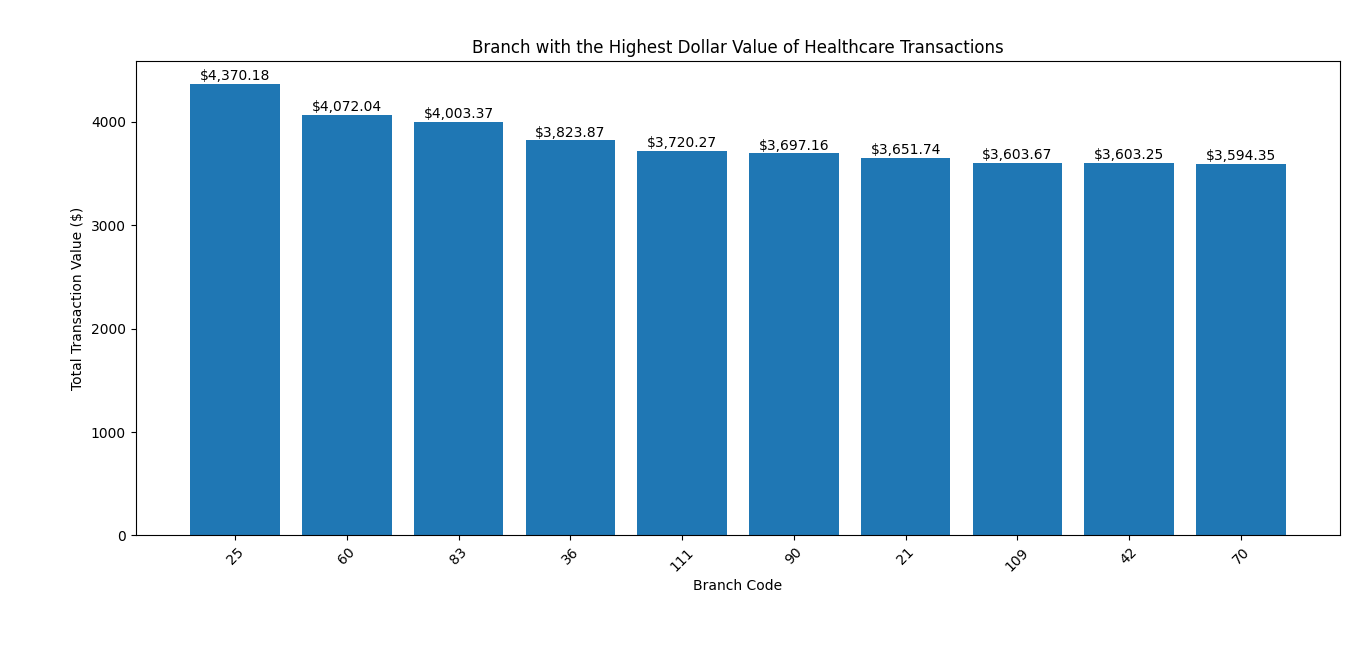
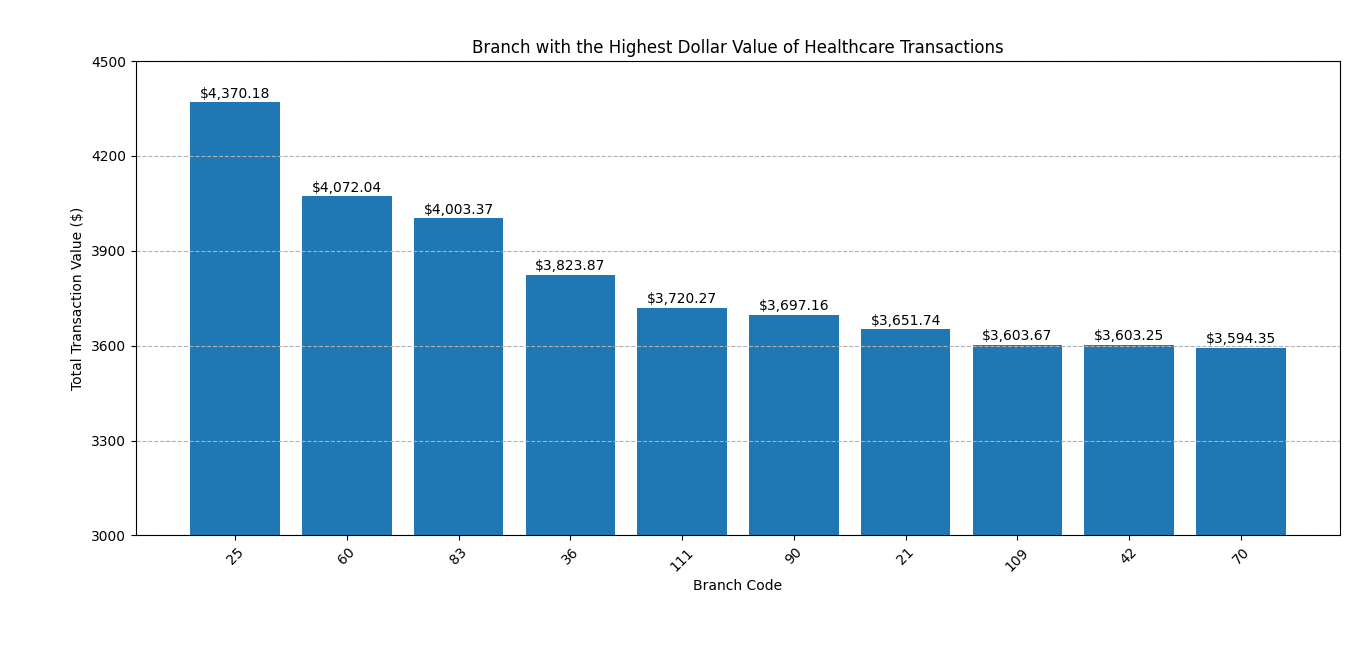
Final Commit

diff --git a/cap_project.py b/cap_project.py
@@ -15,15 +15,14 @@ spark = SparkSession.builder.appName("CreditCardSystem").getOrCreate()
 
 #Functional Requirement 1.1 - Data Extraction and Transformation with Python and PySpark
 
-branch_json_path = "C:/Users/Learner_9ZH3Z179/Desktop/CAP PROJECT/cdw_sapp_branch.json"
-creditcard_json_path = "C:/Users/Learner_9ZH3Z179/Desktop/CAP PROJECT/cdw_sapp_credit.json"
-customer_json_path = "C:/Users/Learner_9ZH3Z179/Desktop/CAP PROJECT/cdw_sapp_custmer.json"
+branch_json_path = "cdw_sapp_branch.json"
+creditcard_json_path = "cdw_sapp_credit.json"
+customer_json_path ="cdw_sapp_custmer.json"
 
-
-#---OR---Using Relative Paths (assuming all files are in the same folder as the .py script) 
-#branch_json_path = "cdw_sapp_branch.json"
-#creditcard_json_path = "cdw_sapp_credit.json"
-#customer_json_path ="cdw_sapp_custmer.json"
+#---OR---Using Absolute Paths
+#branch_json_path = "C:/Users/Learner_9ZH3Z179/Desktop/CAP PROJECT/cdw_sapp_branch.json"
+#creditcard_json_path = "C:/Users/Learner_9ZH3Z179/Desktop/CAP PROJECT/cdw_sapp_credit.json"
+#customer_json_path = "C:/Users/Learner_9ZH3Z179/Desktop/CAP PROJECT/cdw_sapp_custmer.json"
 
 
 def load_to_dataframe():
@@ -118,8 +117,8 @@ def load_to_database(df, table_name):
     .save()
 
 
-if __name__ == "__main__":
-    creditcard_df, customer_df, branch_df = load_to_dataframe()
+#if __name__ == "__main__":
+#    creditcard_df, customer_df, branch_df = load_to_dataframe()
 #    processed_creditcard_df = mapping_process_creditcard_data(creditcard_df)
 #    processed_customer_df = mapping_process_customer_data(customer_df)
 #    processed_branch_df = mapping_process_branch_data(branch_df)
@@ -154,6 +153,7 @@ def get_connection():
 # Order by day in descending order.
 
 def fetch_transactions_by_zip_code_month_and_year():
+
     connection = get_connection()
     cursor = connection.cursor()
     
@@ -287,9 +287,9 @@ def fetch_transactions_by_state():
     print("\n \n")
     if data1:
         total_branches = data1[0][1]
-        print(f"{state} has {total_branches} branches.\n")
+        print(f"{state} has {total_branches} branche/s.\n")
 
-    df = pd.DataFrame(data, columns=["BRANCH_STATE", "TOTAL_TRANSACTIONS", "TOTAL_VALUE"])
+    df = pd.DataFrame(data, columns=["STATE", "TOTAL_TRANSACTIONS", "TOTAL_VALUE"])
     print(df)
     print("\n")
     cursor.close()
@@ -407,9 +407,13 @@ def modify_customer_phone_number(sn):
     cursor.execute(query)
     current_phone =cursor.fetchone()
 
-    if current_phone:
-        #print(current_city[0])
-        print(f"\nYour phone in our records is: {current_phone[0]}")
+    if not current_phone:
+        print(f"NO record found for SSN: {sn}")
+        cursor.close()
+        connection.close()
+        return
+
+    print(f"\nYour phone in our records is: {current_phone[0]}")
     new_phone = input("\nEnter your new phone number. Please follow this format (XXX)XXX-XXXX: ")
 
     update_query = f"""
@@ -460,10 +464,13 @@ def modify_email_address(sn):
     cursor.execute(query)
     current_email =cursor.fetchone()
 
-    if current_email:
-        #print(current_email[0])
-        print(f"\nYour email address in our records is: {current_email[0]}")
-
+    if not current_email:
+        print(f"No record found for SSN: {sn}")
+        cursor.close()
+        connection.close()
+        return
+    
+    print(f"\nYour email address in our records is: {current_email[0]}")
     new_email = input("\nEnter your new email address: ")
 
     update_query = f"""
@@ -510,9 +517,12 @@ def modify_city_name(sn):
 
     cursor.execute(query)
     current_city =cursor.fetchone()
-
-    if current_city:
-        print(f"\nYour city in our records is: {current_city[0]}")
+    if not current_city:
+        print(f"NO record found for SSN: {sn}")
+        cursor.close()
+        connection.close()
+        return
+    print(f"\nYour city in our records is: {current_city[0]}")
 
     new_city = input("\nEnter your new city name: ")
 
@@ -562,9 +572,13 @@ def modify_full_Street_address(sn):
 
     cursor.execute(query)
     current_address =cursor.fetchone()
-
-    if current_address:
-        print(f"Your full street address in our records is: {current_address[0]}")
+    if not current_address:
+        print(f"NO record found for SSN: {sn}")
+        cursor.close()
+        connection.close()
+        return
+    
+    print(f"Your full street address in our records is: {current_address[0]}")
 
     new_address = input("\nEnter your new full street address(Format:  Street name, Apartment number): ")
 
@@ -607,6 +621,7 @@ def modify_account_details():
     while True:
         customer_ssn = input("\nPlease enter the customer's SSN: ")
         if len(customer_ssn) == 9 and customer_ssn.isnumeric():
+            print("\nPlease note that the following details cannot be modified in this project: 1.SSN 2.Middle Name 3.First Name 4.Last Name 5.Credit Card No. 6.State Name 7.Country Name 8.Zip Code")
             print("\nWhat do you want to update? Please select a number accordingly:")
             print("\n1. Update your Phone Number\n2. Modify your email address\n3. Update your  City\n4. Update your full street address\n5. Exit this menu") 
             number = input("\nSelect: ") 
@@ -841,19 +856,21 @@ def plot_transaction_type_with_highest_count():
     cursor.execute(query)
     data = cursor.fetchall() 
     df = pd.DataFrame(data, columns=["Transaction Type", "Transaction Count"])
-    plt.figure(figsize=(7, 4))  # Adjusted size for horizontal bars
-
-    # Generate colors from a colormap
+    plt.figure(figsize=(7, 4))  
     colors = plt.cm.tab10(np.linspace(0, 1, len(df)))
+    #plt.cm.tab10 -> This referes to the tab10 colormap provided by matplotlib.
+    #(np.linspace(0, 1, len(df))) -> function from the numpy library
+    #Combine ->It maps the evenly spaced numbers generated by np.linespace to colors in the tab10 colormap
 
     bars = plt.barh(df["Transaction Type"], df["Transaction Count"], color=colors)
-
     for idx, bar in enumerate(bars):
         bar_width = bar.get_width()
         plt.text(bar_width - 0.02 * max(df["Transaction Count"]), idx, format(int(bar_width), ','), 
             va='center', ha='right', color='white', fontsize=12)
-        #plt.text(bar_width - 0.02 * max(df["Transaction Count"]), idx, round(bar_width, 2), 
-        #        va='center', ha='right', color='white', fontsize=12)
+        #enumerate is built in python function
+        #X-coordinate of the text ->(bar_width - 0.02 * max(df["Transaction Count"]))
+        #y-axis -> idx(Which places the text in line with the bar it correspondent to)
+        #(format(int(bar_width), ',') -> convert bar width to an int and formats its with (,) as thousand seperators
 
     plt.ylabel("Transaction Type")
     plt.xlabel("Number of Transactions")
@@ -925,11 +942,8 @@ def plot_top_10_customers_with_high_transaction_count():
         
     df = pd.DataFrame(data, columns=["Customer SSN", "Total Transaction Value"]) 
     
-
-
     plt.figure(figsize=(8, 5))
-    
-    bars = plt.bar(df["Customer SSN"].astype(str), df["Total Transaction Value"], color=(0.12156863, 0.46666667, 0.70588235))
+    bars = plt.bar(df["Customer SSN"].astype(str), df["Total Transaction Value"])
     
     for bar in bars:
         yval = bar.get_height()
@@ -952,7 +966,7 @@ def plot_top_10_customers_with_high_transaction_count():
 
 def credit_card_dataset_analysis_and_visualization():
     while True:
-        print("\n \n----------------Welcome to Functional Requirements 3.1, 3.2 and 3.3 - Data Analysis and Visualization----------------\n")
+        print("\n \n----------------Welcome to Credit Card dataset - Data Analysis and Visualization Module----------------\n")
         print("""
         Please select a module to dive deeper into its functional requirements:
               
@@ -982,7 +996,6 @@ def credit_card_dataset_analysis_and_visualization():
 #4. Functional Requirements - LOAN Application Dataset
 #Functional Requirements 4.1	Create a Python program to GET (consume) data from the above API endpoint for the loan application dataset.
 #Functional Requirements 4.2	Find the status code of the above API endpoint.
-#Hint: status code could be 200, 400, 404, 401.
 #Functional Requirements 4.3	Once Python reads data from the API, utilize PySpark to load data into RDBMS (SQL). 
 #The table name should be CDW-SAPP_loan_application in the database.
 #Note: Use the “creditcard_capstone” database.
@@ -1020,7 +1033,7 @@ def fetch_data():
 #   fetch_data()
 
 
-#5. Functional Requirements - Data Analysis and Visualization for LOAN Application
+#5. Functional Requirements - Data Analysis and Visualization for Loan Application
 def get_connection():
     try:
         connection =  mysql.connector.connect(
@@ -1034,6 +1047,8 @@ def get_connection():
     except Error as e:
         print(f"Error while connecting to MySQL: {e}")
         return None
+    
+
 #Functional Requirements 5.1 - Find and plot the percentage of applications approved for self-employed applicants.
 
 def plot_app_approved_self_emp():
@@ -1052,7 +1067,7 @@ def plot_app_approved_self_emp():
     not_approved_self_employed = len(self_employed) - len(approved_self_employed)
     percentage_approved = (len(approved_self_employed) / len(self_employed)) * 100
 
-    # Plot Pie chart data
+    # Plotting in Pie chart data
     labels = ['Approved', 'Not Approved']
     sizes = [len(approved_self_employed), not_approved_self_employed]
     colors = ['green', 'red']
@@ -1089,7 +1104,6 @@ def plot_app_rejected_married_male():
     sizes = [len(rejected_married_males), len(married_males) - len(rejected_married_males)]
     colors = ['red', 'blue']
     explode = (0.1, 0)  # explode 1st slice for emphasis
-
     plt.figure(figsize=(10, 6))
     plt.pie(sizes, explode=explode, labels=labels, colors=colors,
             autopct='%1.2f%%', shadow=True, startangle=140)
@@ -1129,7 +1143,7 @@ def plot_top_three_months_largest_vol_tran_count():
 
     plt.figure(figsize=(12, 6))
     
-    # Plotting the line graph
+    # Now, Plotting the line graph
     plt.plot(df['Year_Month'], df['Number_of_Transactions'], marker='o', label='Number of Transactions', color='blue')
     
     # Highlighting the top three months with special markers and annotating each point with its number of transactions
@@ -1237,8 +1251,10 @@ def plot_heighest_value_in_healthcare():
     plt.xlabel('Branch Code')
     plt.ylabel('Total Transaction Value ($)')
     plt.xticks(df['BRANCH_CODE'].astype(str), rotation=45)
-   
-    # Displaying the value on top of the bar
+    plt.yticks([3000, 3300, 3600, 3900, 4200, 4500])
+    plt.ylim(3000, 4500)
+    plt.grid(axis='y', linestyle='--')
+    #To disply value on the top bar with '$' sign
     for index, value in enumerate(df['Total_Healthcare_Transaction_Value']):
         plt.text(index, value + 5, f"${round(value, 2):,}", ha='center', va='bottom')
 
@@ -1252,7 +1268,7 @@ def plot_heighest_value_in_healthcare():
 
 def loan_application_data_analysis_and_visualization():
     while True:
-        print("\n \n----------------Welcome to Functional Requirements 5.1, 5.2 and 5.3 - Data Analysis and Visualization----------------\n")
+        print("\n \n----------------Welcome to Loan Application Dataset - Data Analysis and Visualization Module----------------\n")
         print("""
         Please select a module to dive deeper into its functional requirements:
               
@@ -1291,8 +1307,8 @@ def main():
               
         1. Transaction Details Module
         2. Customer Details Module
-        3. Credit Card dataset - Data Analysis and Visualization
-        4. Loan Application Dataset - Data Analysis and Visualization
+        3. Credit Card dataset - Data Analysis and Visualization Module
+        4. Loan Application Dataset - Data Analysis and Visualization Module
         5. Exit
         """)
         choice = input("Enter your choice: ")
@@ -1310,6 +1326,6 @@ def main():
         else:
             print("Invalid choice. Please try again.")
 
-if __name__ == '__main__':
-   main()
+#if __name__ == '__main__':
+#   main()
 
